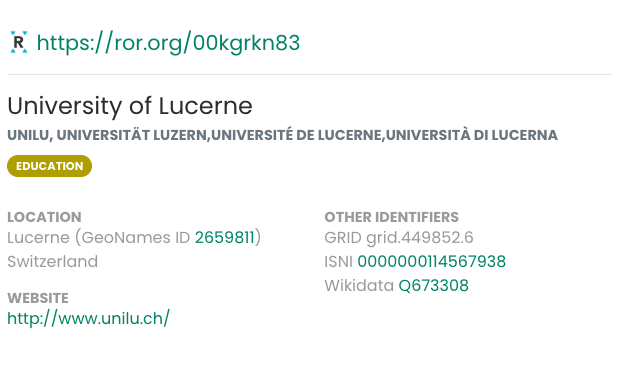
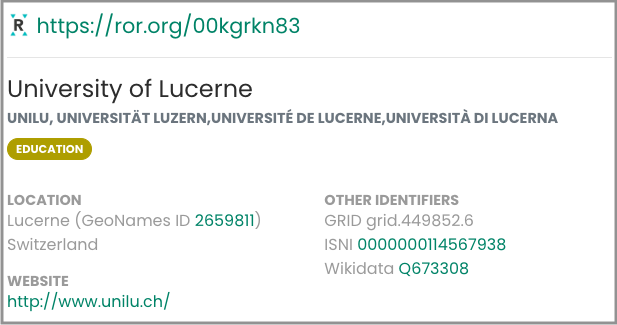
Image formatting

Changed region(s): [[0.0, 0.0, 1.0, 1.0], [0.5235, 0.5538, 0.8314, 0.8615]]

diff --git a/content/blog/2022-08-31-name-metadata-in-ror.md b/content/blog/2022-08-31-name-metadata-in-ror.md
@@ -60,7 +60,7 @@ A given ROR record may have multiple names associated with it. ROR actually has 
 - Acronyms or initialisms in use for the name (`acronyms`)
 
 _Example ROR record with multiple names_
-{{< figure src="/img/name-metadata-example.png" width="75%" >}}
+{{< figure src="/img/name-metadata-example.png" width="50%" >}}
 
 All of these fields can be useful because collectively they support the goals of discovery and disambiguation discussed above. We believe that having robust metadata for names is key for this reason. When a record has less metadata, it can be harder for users to discover the ID they are looking for, or it can be challenging to disambiguate between two similar records.
 
